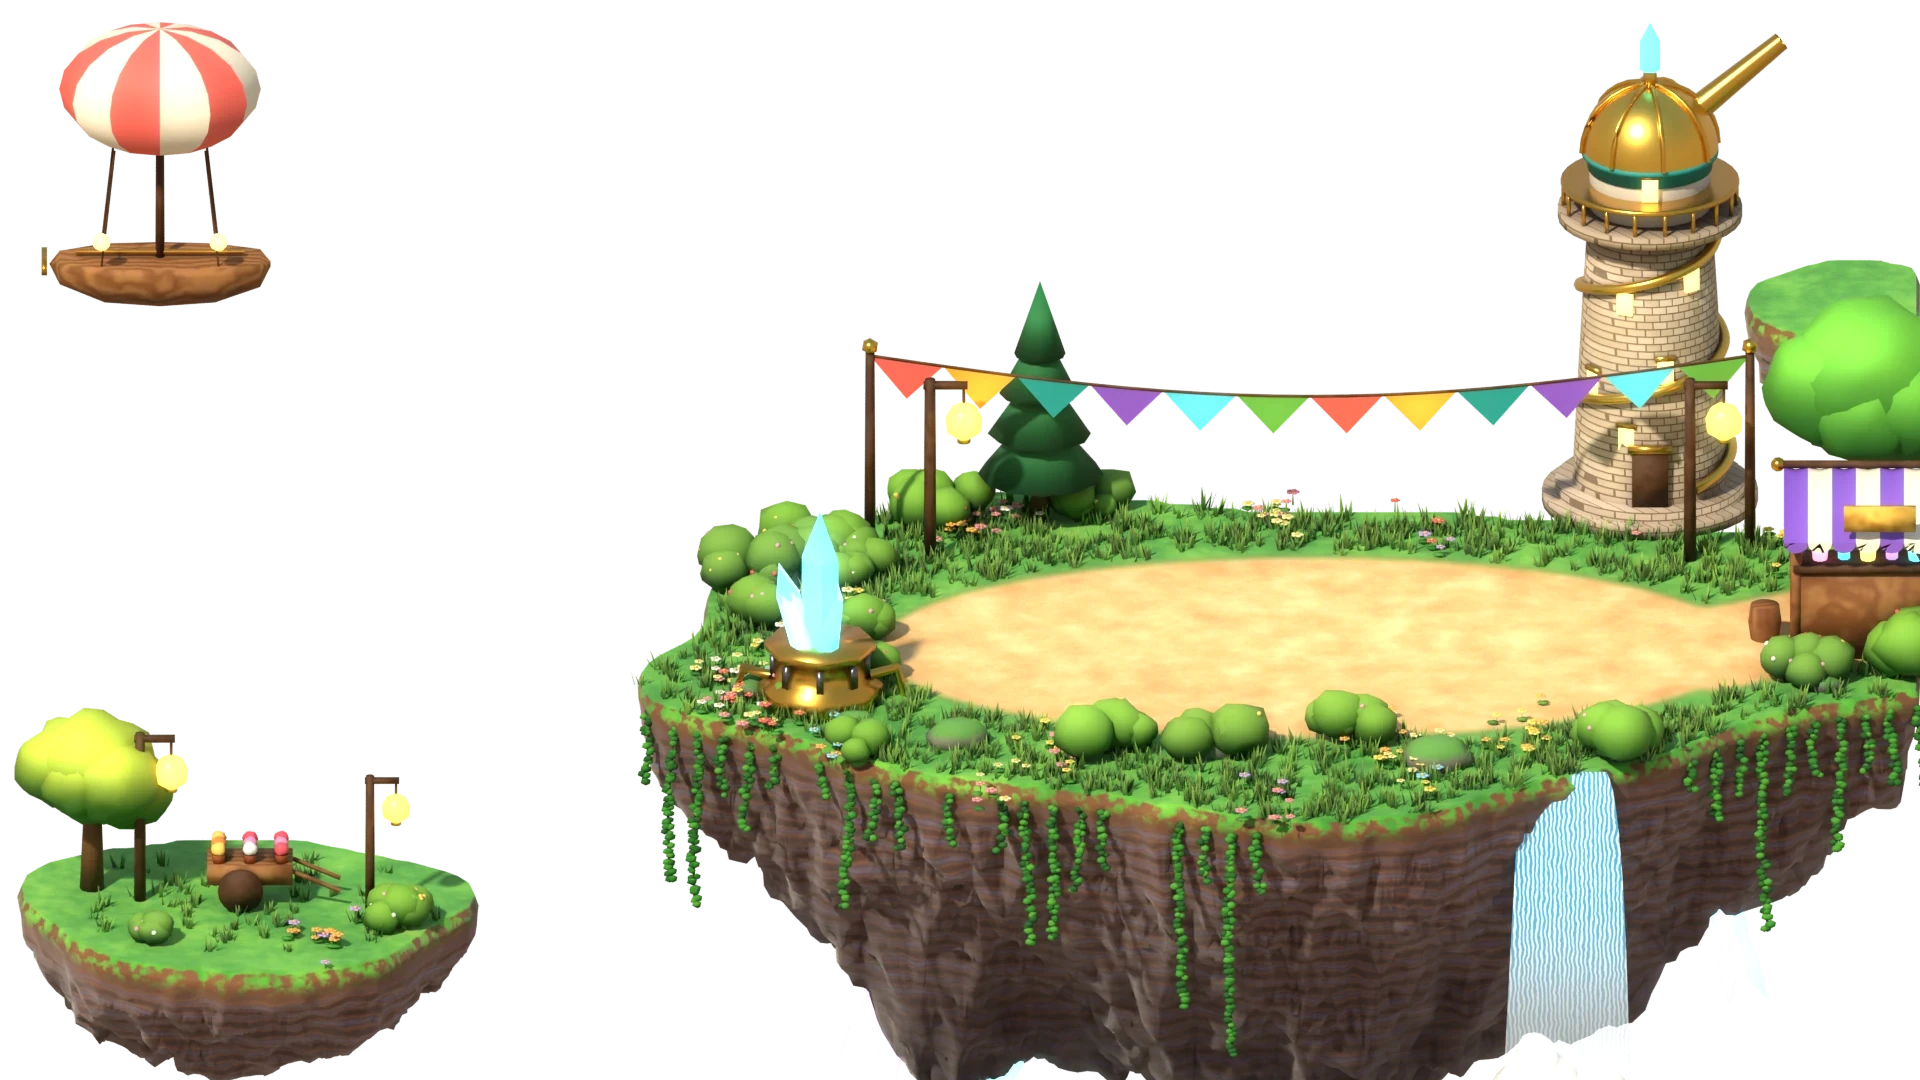
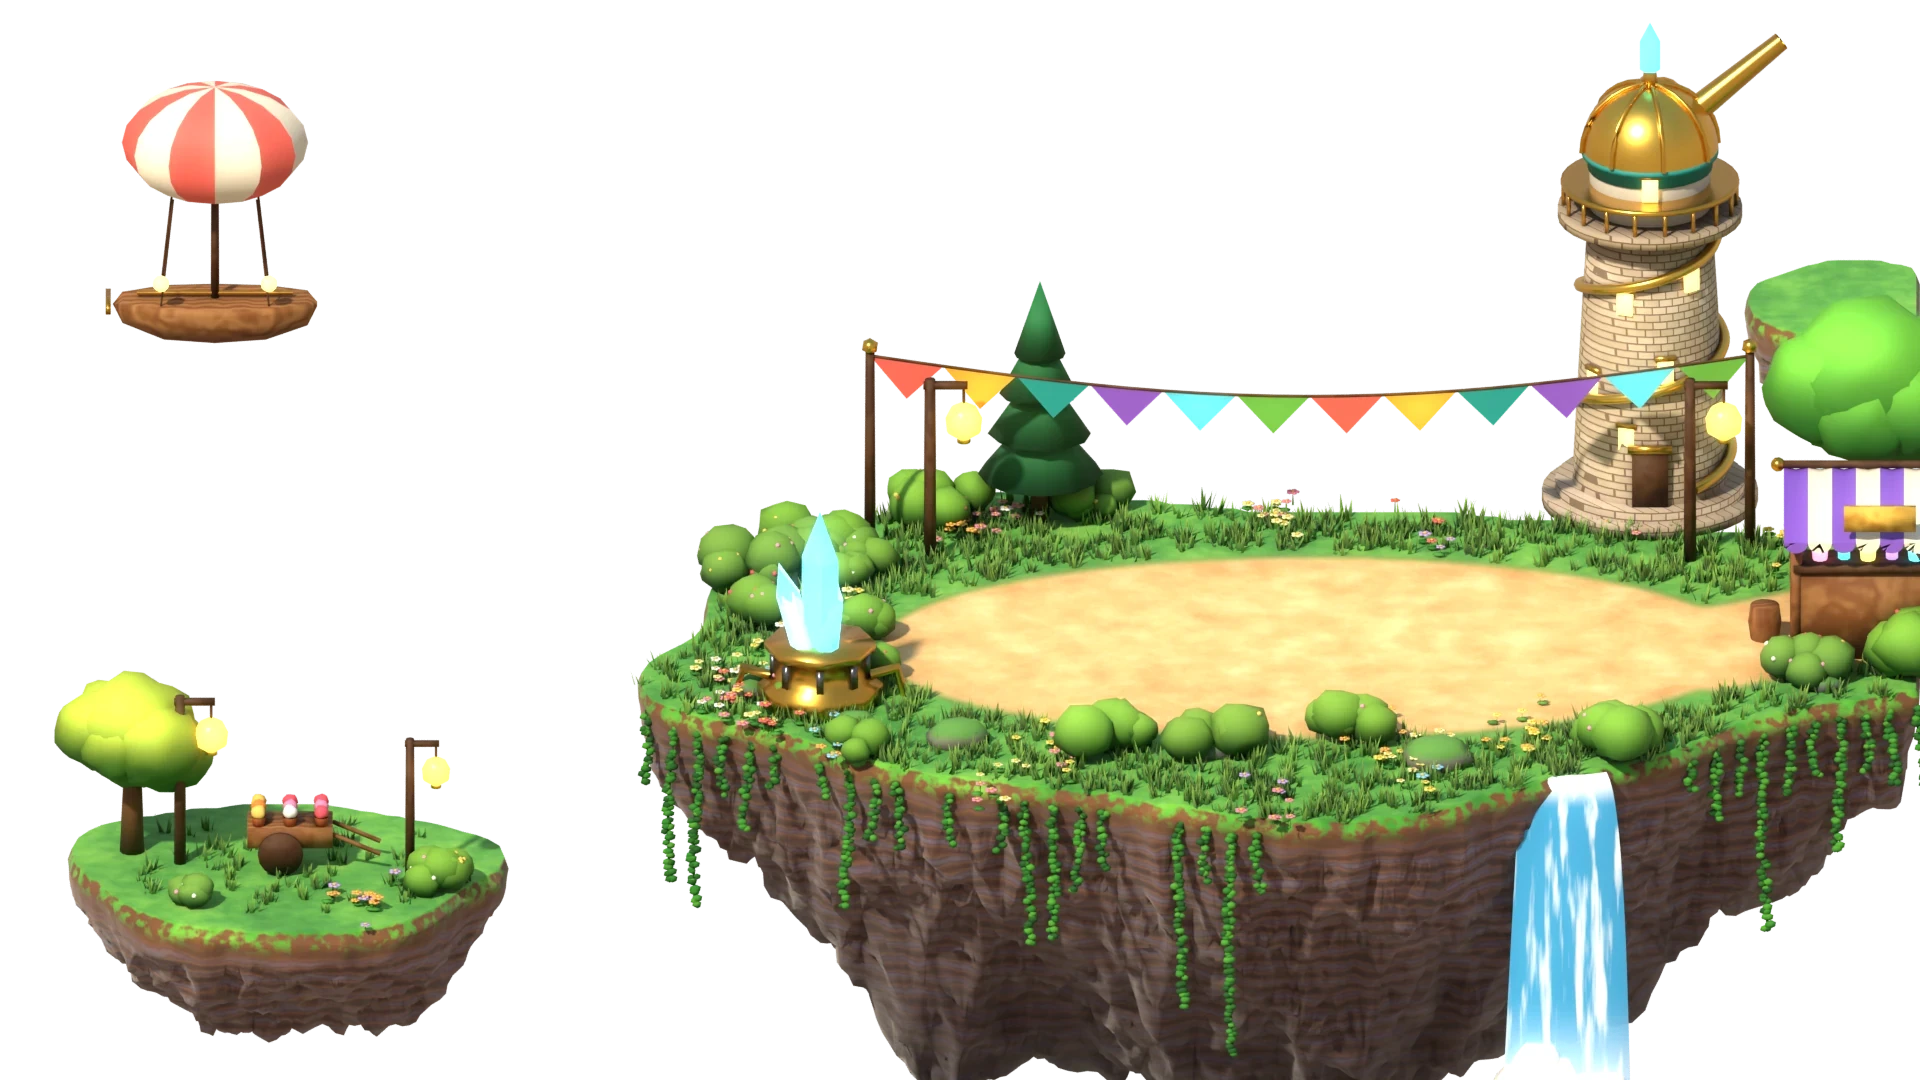
Art: streaked waterfalls, cleaner title, calmer board scatter, Orbit relief
- lib.falls_material: foam streaks run down the fall over clear blue
  with a bright lip and white foot (bands across the fall read as a
  printed card); title and board falls are rounded sheets.
- Title: the blown-out crystals under the island are gone; the sky-boat
  and the side islet sit inside the frame.
- Board (re-render pending): wider trails with a pale sandy border,
  about half the bushes, fewer and tighter groves, flower meadows.
- Orbit disc: raised brass rings, tick studs and gem inlays, weathered
  stone.

Claude-Session: https://claude.ai/code/session_01SaCmMRmT6ous3ZUywnLqEj

diff --git a/scripts/art/scenes.py b/scripts/art/scenes.py
@@ -110,24 +110,9 @@ def title_waterfall(ring, nrm, target_x=1560):
     k = min(range(len(ring)), key=lambda i: abs(ring[i][0] - target_x) + (0 if nrm[i][1] > 0.6 else 9999))
     bx, by = ring[k]
     top = board_to_world(bx, by - 10, 0.0)
-    m = lib.NT('title_fall')
-    pos = m.position()
-    X, Y, Z = m.sep(pos)
-    wave = m.node('ShaderNodeTexWave')
-    wave.wave_type = 'BANDS'
-    wave.bands_direction = 'X'
-    wave.inputs['Scale'].default_value = 7.0
-    wave.inputs['Distortion'].default_value = 5.0
-    m.link(pos, wave.inputs['Vector'])
-    # clear blue water with pale streaks at the lip, turning to white foam as it falls
-    streak = m.maprange(wave.outputs['Fac'], 0.35, 0.85)
-    water = m.mix(streak, col('#2e9fd6'), col('#d9f5ff'))
-    foam = m.maprange(Z, top.z - 1.2, top.z - 3.8, 0.0, 1.0)
-    c = m.mix(m.math('MULTIPLY', foam, 0.75), water, col('#ffffff'))
-    fade = m.maprange(Z, top.z - 4.2, top.z - 1.0, 0.0, 1.0)
-    m.bsdf(c, 0.12, emission=c, emission_strength=0.28, coat=0.6, alpha=m.math('MULTIPLY', fade, 0.95))
+    mat = lib.falls_material('title_fall', top.z, top.z - 4.4)
     verts, faces = [], []
-    rows = 22
+    rows, cols = 22, 8
     for r in range(rows + 1):
         t = r / rows
         out = 0.35 * math.sqrt(t) + 0.05
@@ -136,11 +121,15 @@ def title_waterfall(ring, nrm, target_x=1560):
         cx = top.x + math.sin(t * 3) * 0.04
         cy = top.y - out - 0.12
         cz = top.z - drop
-        verts += [(cx - wd, cy, cz), (cx + wd, cy, cz)]
+        for i in range(cols + 1):
+            u = i / cols * 2 - 1
+            # a rounded sheet (bulging towards the camera) so the key light shades it across its width
+            verts.append((cx + u * wd, cy - 0.09 * (1 - u * u), cz))
     for r in range(rows):
-        i = r * 2
-        faces.append((i, i + 1, i + 3, i + 2))
-    lib.mesh_object('title_waterfall', verts, faces, smooth=True, material=m.mat)
+        for i in range(cols):
+            a = r * (cols + 1) + i
+            faces.append((a, a + 1, a + cols + 2, a + cols + 1))
+    lib.mesh_object('title_waterfall', verts, faces, smooth=True, material=mat)
     mist = lib.MeshBuilder()
     rnd = random.Random(8)
     for _ in range(9):
@@ -168,12 +157,14 @@ def title():
     outline = blob_outline(1280, 650, 625, 150, seed=4, lobes=9)
     ob, dist, under, ring, nrm = island_under(outline, 'title_island', mat)
     # companion islets: a larger one bottom-left with the festival sky-boat moored above it
-    for i, (cx, cy, rx, ry) in enumerate([(250, 905, 230, 60), (1860, 300, 120, 30)]):
+    # (kept inside the frame: the bottom-left islet sits a little up and in from the corner)
+    ix, iy = 290, 868
+    for i, (cx, cy, rx, ry) in enumerate([(ix, iy, 220, 58), (1860, 300, 120, 30)]):
         island_under(blob_outline(cx, cy, rx, ry, seed=10 + i, lobes=5), f'islet{i}', mat, depth=0.6 if i == 0 else 0.5)
-    # the festival sky-boat drifting in the top-left sky (clear of the logo)
-    props.skyboat(160, 330, 1.3)
-    props.lantern(140, 900, 1.2)
-    props.lantern(370, 915, 1.0)
+    # the festival sky-boat drifting in the top-left sky (clear of the logo and of the frame edge)
+    props.skyboat(215, 365, 1.2)
+    props.lantern(ix - 110, iy - 5, 1.2)
+    props.lantern(ix + 120, iy + 10, 1.0)
     rnd = random.Random(3)
     grass = lib.MeshBuilder()
     flowers = lib.MeshBuilder()
@@ -182,14 +173,14 @@ def title():
     rocks = lib.MeshBuilder()
     vines = lib.MeshBuilder()
     # the bottom-left islet is a little scene of its own: a flower cart under a tree, bushes and grass
-    props.flower_cart(250, 902, 0.95)
-    terrain.tree_round(leaves, wood, 92, 888, rnd, 0.95)
-    terrain.bush(leaves, 392, 926, rnd, 1.0, berries=flowers)
-    terrain.bush(leaves, 150, 940, rnd, 0.8, berries=flowers)
-    terrain.flower_bed(flowers, leaves, 330, 944, rnd)
+    props.flower_cart(ix, iy - 3, 0.95)
+    terrain.tree_round(leaves, wood, ix - 158, iy - 17, rnd, 0.95)
+    terrain.bush(leaves, ix + 142, iy + 21, rnd, 1.0, berries=flowers)
+    terrain.bush(leaves, ix - 100, iy + 35, rnd, 0.8, berries=flowers)
+    terrain.flower_bed(flowers, leaves, ix + 80, iy + 39, rnd)
     for _ in range(70):
         a, r = rnd.uniform(0, math.tau), math.sqrt(rnd.random())
-        terrain.grass_tuft(grass, 250 + math.cos(a) * r * 200, 905 + math.sin(a) * r * 48, rnd, rnd.uniform(0.9, 1.3))
+        terrain.grass_tuft(grass, ix + math.cos(a) * r * 190, iy + math.sin(a) * r * 46, rnd, rnd.uniform(0.9, 1.3))
     poly = Image.new('L', (SW // 4, SH // 4), 0)
     ImageDraw.Draw(poly).polygon([(x / 4, y / 4) for x, y in outline], fill=255)
     pm_arr = np.asarray(Image.open(pm), np.float32) / 255.0
@@ -222,19 +213,6 @@ def title():
         w = board_to_world(bx, by, -0.12)
         length = rnd.uniform(0.3, 1.0) if rnd.random() < 0.75 else rnd.uniform(1.4, 2.4)
         terrain.vine(vines, (w.x, w.y, w.z), (nrm[k][0], -nrm[k][1]), rnd, length)
-    # crystals poking out of the underside
-    crys = lib.MeshBuilder()
-    cands = [v for v, d in under if d > 40]
-    for _ in range(min(len(cands), 7)):
-        v0 = rnd.choice(cands)
-        for _k in range(rnd.randint(1, 3)):
-            pv, fv = lib.prism((v0[0] + rnd.uniform(-0.15, 0.15), v0[1] + rnd.uniform(-0.15, 0.15), v0[2] + 0.15), rnd.uniform(0.08, 0.16), rnd.uniform(0.6, 1.3),
-                               tilt=(math.pi + rnd.uniform(-0.5, 0.5), rnd.uniform(-0.5, 0.5)), twist=rnd.random())
-            crys.add(pv, fv, col(rnd.choice(['#5ce1ff', '#8ff0ff', '#c49bff'])))
-    cm = lib.NT('title_crystal')
-    cc = cm.attr('col')
-    cm.bsdf(cc, 0.12, emission=cc, emission_strength=2.6, coat=0.6, transmission=0.2)
-    crys.build('title_crystals', cm.mat, smooth=False)
     # a waterfall spilling off the front rim, with a mist puff where it thins out
     title_waterfall(ring, nrm)
     lib.MeshBuilder.build(grass, 'grass', lib.attr_mat('grass', rough=0.8, sheen=0.15, ao=0.3), smooth=False)
@@ -503,11 +481,6 @@ def astro_texture(path, size=1400):
         a = k / 48 * math.tau
         r0, r1 = (0.83 if k % 4 else 0.78) * R, 0.92 * R
         d.line([(c + math.cos(a) * r0, c + math.sin(a) * r0), (c + math.cos(a) * r1, c + math.sin(a) * r1)], fill=(230, 214, 170), width=4 if k % 4 else 7)
-    # glowing crystal inlays
-    for k in range(12):
-        a = k / 12 * math.tau + 0.13
-        r = 0.59 * R
-        d.ellipse([c + math.cos(a) * r - 10, c + math.sin(a) * r - 10, c + math.cos(a) * r + 10, c + math.sin(a) * r + 10], fill=(140, 208, 222))
     # brass spokes between the inner rings
     for k in range(8):
         a = k / 8 * math.tau
@@ -547,7 +520,15 @@ def astro_texture(path, size=1400):
             d.line([pts[i], pts[i + 1]], fill=(176, 142, 100), width=3)
     for (x, y) in pts:
         d.ellipse([x - 6, y - 6, x + 6, y + 6], fill=(255, 236, 170))
-    im.save(path)
+    # weathering: soft mottling and fine grain so the stone doesn't read as flat vector fills
+    from scipy import ndimage
+    arr = np.asarray(im).astype(np.float32)
+    rng = np.random.default_rng(3)
+    mottle = ndimage.gaussian_filter(rng.normal(0.0, 1.0, arr.shape[:2]), 18.0)
+    mottle /= max(1e-6, float(np.abs(mottle).max()))
+    grain = ndimage.gaussian_filter(rng.normal(0.0, 1.0, arr.shape[:2]), 1.2)
+    arr *= (1.0 + 0.06 * mottle + 0.03 * grain)[..., None]
+    Image.fromarray(np.clip(arr, 0, 255).astype(np.uint8)).save(path)
 
 
 def orbit():
@@ -564,6 +545,28 @@ def orbit():
     c = board_to_world(cx, cy, 0.0)
     v, f = lib.lathe([(ORBIT_R, 0.0), (0.0, 0.0)], 96, (c.x, c.y, 0.0), cap_bottom=False, cap_top=False)
     lib.mesh_object('platform_top', v, f, smooth=False, material=top_m)
+    # Raised brass rings, tick studs and glowing gem inlays: real relief catches the key light and
+    # casts small shadows, so the disc sits in the same rendered world as the characters.
+    relief = lib.MeshBuilder()
+    for rr, wd, hh in [(0.935, 0.11, 0.05), (0.72, 0.065, 0.035), (0.46, 0.065, 0.035), (0.22, 0.075, 0.04)]:
+        r0 = rr * ORBIT_R
+        prof = [(r0 - wd / 2, 0.0), (r0 - wd / 2, hh * 0.6), (r0 - wd / 4, hh), (r0 + wd / 4, hh), (r0 + wd / 2, hh * 0.6), (r0 + wd / 2, 0.0)]
+        rv, rf = lib.lathe(prof, 128, (c.x, c.y, 0.0), cap_bottom=False, cap_top=False)
+        relief.add(rv, rf, col('#e0a93f'))
+    for k in range(48):
+        a = k / 48 * math.tau
+        big = k % 4 == 0
+        r0, r1 = (0.78 if big else 0.83) * ORBIT_R, 0.915 * ORBIT_R
+        mid = (r0 + r1) / 2
+        tv, tf = lib.box((c.x + math.cos(a) * mid, c.y + math.sin(a) * mid, 0.02), (r1 - r0, 0.075 if big else 0.05, 0.04), rot_z=a)
+        relief.add(tv, tf, col('#f0d9a0'))
+    relief.build('platform_relief', props.mats()['metal'])
+    gems = lib.MeshBuilder()
+    for k in range(12):
+        a = k / 12 * math.tau + 0.13
+        gv, gf = lib.blob((c.x + math.cos(a) * 0.59 * ORBIT_R, c.y + math.sin(a) * 0.59 * ORBIT_R, 0.0), 0.11, squash=(1.0, 1.0, 0.45), rough=0.0, subdiv=2)
+        gems.add(gv, gf, col('#5ce1ff'))
+    gems.build('platform_gems', props.mats()['glow'])
     rim = lib.MeshBuilder()
     rim_v, rim_f = lib.lathe([(ORBIT_R + 0.02, 0.02), (ORBIT_R + 0.25, 0.02), (ORBIT_R + 0.25, -0.35), (ORBIT_R + 0.1, -0.6), (ORBIT_R - 0.6, -1.4), (ORBIT_R - 1.4, -2.6)], 96, (c.x, c.y, 0.0), cap_bottom=False, cap_top=False)
     rim.add(rim_v, rim_f, col('#bda486'))

diff --git a/scripts/art/board.py b/scripts/art/board.py
@@ -248,9 +248,9 @@ def path_mask(islands_masks):
         if e['style'] != 'path':
             continue
         a, b = NODES[e['from']], NODES[e['to']]
-        dr.line([(a['x'] / s, a['y'] / s), (b['x'] / s, b['y'] / s)], fill=255, width=int(70 / s))
+        dr.line([(a['x'] / s, a['y'] / s), (b['x'] / s, b['y'] / s)], fill=255, width=int(84 / s))
     for n in NODES.values():
-        r = 66 / s
+        r = 72 / s
         dr.ellipse([n['x'] / s - r, n['y'] / s - r * 0.8, n['x'] / s + r, n['y'] / s + r * 0.8], fill=255)
     img = img.filter(ImageFilter.GaussianBlur(3.2))
     path = os.path.join(A.out, 'pathmask.png')
@@ -395,24 +395,7 @@ def theme_of(ids):
 
 
 def water_material():
-    m = lib.NT('water')
-    pos = m.position()
-    X, Y, Z = m.sep(pos)
-    wave = m.node('ShaderNodeTexWave')
-    wave.wave_type = 'BANDS'
-    wave.bands_direction = 'X'
-    wave.inputs['Scale'].default_value = 9.0
-    wave.inputs['Distortion'].default_value = 4.0
-    wave.inputs['Detail'].default_value = 2.0
-    m.link(pos, wave.inputs['Vector'])
-    # clear blue water with pale streaks at the lip, turning to white foam as it falls
-    streak = m.maprange(wave.outputs['Fac'], 0.35, 0.85)
-    water = m.mix(streak, lib.col('#2e9fd6'), lib.col('#d9f5ff'))
-    foam = m.maprange(Z, -0.4, -2.4, 0.0, 1.0)
-    c = m.mix(m.math('MULTIPLY', foam, 0.75), water, lib.col('#ffffff'))
-    fade = m.maprange(Z, -3.6, -1.2, 0.0, 1.0)
-    m.bsdf(c, 0.12, emission=c, emission_strength=0.28, coat=0.6, alpha=m.math('MULTIPLY', fade, 0.95))
-    return m.mat
+    return lib.falls_material('water', -0.02, -3.6)
 
 
 def pond_material():
@@ -462,8 +445,10 @@ def add_waterfall(water_mb, pond_mb, rock_mb, ring, nrm, pm, rnd):
         out = 0.06 + 0.42 * min(1.0, t * 3.0) ** 0.5
         z = -0.02 - 3.6 * t ** 1.15
         for i in range(cols + 1):
-            u = (i / cols - 0.5) * width * (1 + 0.35 * t)
-            verts.append((w0.x + ox * out + px * u, w0.y + oy * out + py * u, z))
+            uu = i / cols * 2 - 1
+            u = uu * 0.5 * width * (1 + 0.35 * t)
+            bulge = 0.07 * (1 - uu * uu)  # rounded, not a flat card
+            verts.append((w0.x + ox * (out + bulge) + px * u, w0.y + oy * (out + bulge) + py * u, z))
     for j in range(rows):
         for i in range(cols):
             a = j * (cols + 1) + i
@@ -607,26 +592,32 @@ def build_lowland(island_info, canopy_clear, mats):
         bx, by = rnd.uniform(20, W - 20), rnd.uniform(20, H - 20)
         if on_low(bx, by, 8) and seen(bx, by):
             grass_tuft(grass, bx, by, rnd, rnd.uniform(0.9, 1.4))
-    for _ in range(int(area / 100000)):
-        pt = pick(20)
-        if pt:
-            flower_bed(flowers, leaves, *pt, rnd)
-    for _ in range(int(area / 55000)):
+    # flower meadows: dense patches of colour with open grass between them (clearings, not confetti)
+    for _ in range(9):
+        c = pick(60)
+        if not c:
+            continue
+        for _k in range(rnd.randint(10, 18)):
+            a_, r_ = rnd.uniform(0, math.tau), math.sqrt(rnd.random())
+            bx, by = c[0] + math.cos(a_) * r_ * 170, c[1] + math.sin(a_) * r_ * 100
+            if on_low(bx, by, 20) and seen(bx, by):
+                flower_bed(flowers, leaves, bx, by, rnd)
+    for _ in range(int(area / 150000)):
         pt = pick(16)
         if pt and clear_of_paths(pt[0], pt[1], 40, 0.9):
             bush(leaves, *pt, rnd, rnd.uniform(0.8, 1.3), berries=flowers)
-    for _ in range(int(area / 90000)):
+    for _ in range(int(area / 160000)):
         pt = pick(12)
         if pt:
             rock(rocks, *pt, rnd, rnd.uniform(0.9, 1.8))
-    # forests: clumps of round trees and pines (cooler palettes, they sit further away)
+    # forests: a few distinct groves of round trees and pines (cooler palettes, they sit further away)
     low_pals = [('#1f5f2c', '#5aa84e'), ('#1a5a3a', '#4fa86a'), ('#2a6a24', '#80b843'), ('#245a2a', '#6aa24a')]
-    for _ in range(20):
+    for _ in range(12):
         c = pick(80)
         if not c:
             continue
-        for _k in range(rnd.randint(5, 10)):
-            bx, by = c[0] + rnd.uniform(-130, 130), c[1] + rnd.uniform(-80, 80)
+        for _k in range(rnd.randint(6, 11)):
+            bx, by = c[0] + rnd.uniform(-105, 105), c[1] + rnd.uniform(-65, 65)
             if not (on_low(bx, by, 50) and seen(bx, by) and clear_of_paths(bx, by, 95, 2.6)):
                 continue
             if rnd.random() < 0.6:
@@ -643,8 +634,8 @@ def build_lowland(island_info, canopy_clear, mats):
             bx, by = rim[k]
             for off in (18, 34):
                 qx, qy = bx, by + off
-                if on_low(qx, qy, 10) and seen(qx, qy) and rnd.random() < 0.3:
-                    if rnd.random() < 0.7:
+                if on_low(qx, qy, 10) and seen(qx, qy) and rnd.random() < 0.16:
+                    if rnd.random() < 0.88:
                         rock(rocks, qx + rnd.uniform(-8, 8), qy, rnd, rnd.uniform(1.0, 2.0))
                     else:
                         bush(leaves, qx + rnd.uniform(-8, 8), qy, rnd, rnd.uniform(0.7, 1.1), berries=flowers)
@@ -819,15 +810,15 @@ def main():
                 continue
             grass_tuft(grass, bx, by, rnd, rnd.uniform(0.8, 1.3))
         # decoration kept deliberately sparse: a few meaningful clusters instead of noise
-        for _ in range(int(area / 20000 * T['flowers'] * 0.45)):
+        for _ in range(int(area / 20000 * T['flowers'] * 0.65)):
             pt = pick(min_edge=20, path_clear=0.02, node_r=78)
             if pt:
                 flower_bed(flowers, leaves, *pt, rnd)
-        for _ in range(int(area / 16000 * T['bushes'] * 0.65)):
+        for _ in range(int(area / 16000 * T['bushes'] * 0.3)):
             pt = pick(min_edge=12, max_edge=120, path_clear=0.01, node_r=92)
             if pt and canopy_clear(pt[0], pt[1], 40, 60):
                 bush(leaves, *pt, rnd, rnd.uniform(0.7, 1.2), berries=flowers)
-        for _ in range(int(area / 32000 * T['rocks'] * 0.6)):
+        for _ in range(int(area / 32000 * T['rocks'] * 0.75)):
             pt = pick(path_clear=0.08, node_r=70)
             if pt:
                 rock(rocks, *pt, rnd, rnd.uniform(0.8, 1.4))

diff --git a/scripts/art/lib.py b/scripts/art/lib.py
@@ -394,6 +394,26 @@ class NT:
         return b
 
 
+def falls_material(name: str, z_lip: float, z_foot: float) -> bpy.types.Material:
+    """Stylised falling water: foam streaks running down the fall over clear blue, a bright lip and white
+    spray towards the foot, fading out near z_foot. (Bands across the fall read as a flat printed card.)"""
+    m = NT(name)
+    pos = m.position()
+    X, Y, Z = m.sep(pos)
+    stretch = m.node('ShaderNodeVectorMath', operation='MULTIPLY')
+    m.link(pos, stretch.inputs[0])
+    stretch.inputs[1].default_value = (7.0, 7.0, 0.55)  # long along Z: vertical streaks
+    nz = m.noise(1.0, 3.0, 0.55, stretch.outputs['Vector'])
+    streak = m.maprange(nz.outputs['Fac'], 0.5, 0.66)
+    depth = m.maprange(Z, z_lip, z_foot, 0.0, 1.0, smooth=False)  # 0 at the lip, 1 at the foot
+    c = m.mix(streak, col('#3aa6dc'), col('#e6f8ff'))
+    c = m.mix(m.maprange(Z, z_lip - 0.3, z_lip), c, col('#f4fdff'))  # white water tipping over the lip
+    c = m.mix(m.math('MULTIPLY', m.maprange(depth, 0.5, 0.95), 0.85), c, col('#ffffff'))
+    fade = m.maprange(depth, 1.0, 0.78)
+    m.bsdf(c, 0.1, emission=c, emission_strength=0.25, coat=0.6, alpha=m.math('MULTIPLY', fade, 0.95))
+    return m.mat
+
+
 def simple_mat(name: str, color: str, rough: float = 0.7, **kw) -> bpy.types.Material:
     m = NT(name)
     m.bsdf(col(color), rough, **kw)

diff --git a/scripts/art/terrain.py b/scripts/art/terrain.py
@@ -212,9 +212,12 @@ def island_material(mask_path, theme='plaza'):
     peb = m.voronoi(18.0, pos)
     pebf = m.maprange(peb.outputs['Distance'], 0.05, 0.18, 1.0, 0.0)
     dirt = m.mix(m.math('MULTIPLY', pebf, 0.45), dirt, lib.col('#f4e2bd'))
-    # soft darker edge where trail meets grass
-    edge = m.math('MULTIPLY', m.maprange(m.sep(pmask)[0], 0.12, 0.35), m.maprange(m.sep(pmask)[0], 0.6, 0.35))
-    grass_d = m.mix(m.math('MULTIPLY', edge, 0.55), grass, lib.col('#6b8a32'))
+    # a pale sandy border where the trail meets the grass, and lighter grass beside it
+    pv = m.sep(pmask)[0]
+    fringe = m.maprange(pv, 0.02, 0.2)
+    grass_d = m.mix(m.math('MULTIPLY', fringe, 0.35), grass, lib.col('#b6d36a'))
+    edge = m.math('MULTIPLY', m.maprange(pv, 0.12, 0.3), m.maprange(pv, 0.55, 0.32))
+    grass_d = m.mix(m.math('MULTIPLY', edge, 0.8), grass_d, lib.col('#f1dfb0'))
     top = m.mix(pm, grass_d, dirt)
     # --- rock underside: strata bands + noise
     wave = m.node('ShaderNodeTexWave')
